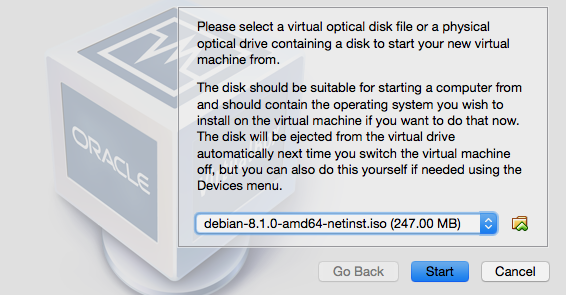
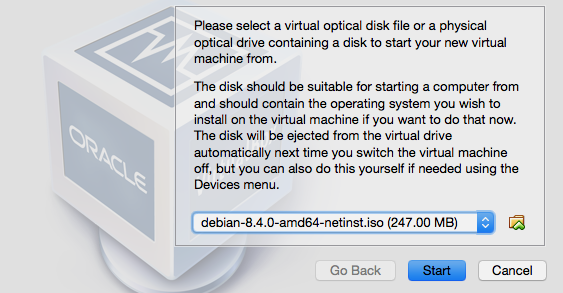
[Doc] Update gitian build guide to debian 8.4.0

diff --git a/doc/gitian-building.md b/doc/gitian-building.md
@@ -47,7 +47,7 @@ You can also install Gitian on actual hardware instead of using virtualization.
 
 Create a new VirtualBox VM
 ---------------------------
-In the VirtualBox GUI click "Create" and choose the following parameters in the wizard:
+In the VirtualBox GUI click "New" and choose the following parameters in the wizard:
 
 ![](gitian-building/create_new_vm.png)
 
@@ -74,13 +74,6 @@ In the VirtualBox GUI click "Create" and choose the following parameters in the 
 - File location and size: at least 40GB; as low as 20GB *may* be possible, but better to err on the safe side
 - Click `Create`
 
-Get the [Debian 8.x net installer](http://cdimage.debian.org/debian-cd/8.3.0/amd64/iso-cd/debian-8.3.0-amd64-netinst.iso) (a more recent minor version should also work, see also [Debian Network installation](https://www.debian.org/CD/netinst/)).
-This DVD image can be validated using a SHA256 hashing tool, for example on
-Unixy OSes by entering the following in a terminal:
-
-    echo "dd25bcdde3c6ea5703cc0f313cde621b13d42ff7d252e2538a11663c93bf8654  debian-8.3.0-amd64-netinst.iso" | sha256sum -c
-    # (must return OK)
-
 After creating the VM, we need to configure it.
 
 - Click the `Settings` button, then go to the `Network` tab. Adapter 1 should be attached to `NAT`.
@@ -101,6 +94,13 @@ After creating the VM, we need to configure it.
   - Guest Port: `22`
 
 - Click `Ok` twice to save.
+
+Get the [Debian 8.x net installer](http://cdimage.debian.org/debian-cd/8.4.0/amd64/iso-cd/debian-8.4.0-amd64-netinst.iso) (a more recent minor version should also work, see also [Debian Network installation](https://www.debian.org/CD/netinst/)).
+This DVD image can be validated using a SHA256 hashing tool, for example on
+Unixy OSes by entering the following in a terminal:
+
+    echo "7a6b418e6a4ee3ca75dda04d79ed96c9e2c33bb0c703ca7e40c6374ab4590748  debian-8.4.0-amd64-netinst.iso" | sha256sum -c
+    # (must return OK)
 
 Then start the VM. On the first launch you will be asked for a CD or DVD image. Choose the downloaded iso.
 
@@ -159,6 +159,10 @@ To select a different button, press `Tab`.
   - Select disk to partition: SCSI1 (0,0,0)
 
 ![](gitian-building/debian_install_12_choose_disk.png)
+
+  - Partition Disks -> *All files in one partition*
+
+![](gitian-building/all_files_in_one_partition.png)
 
   - Finish partitioning and write changes to disk -> *Yes* (`Tab`, `Enter` to select the `Yes` button)
 